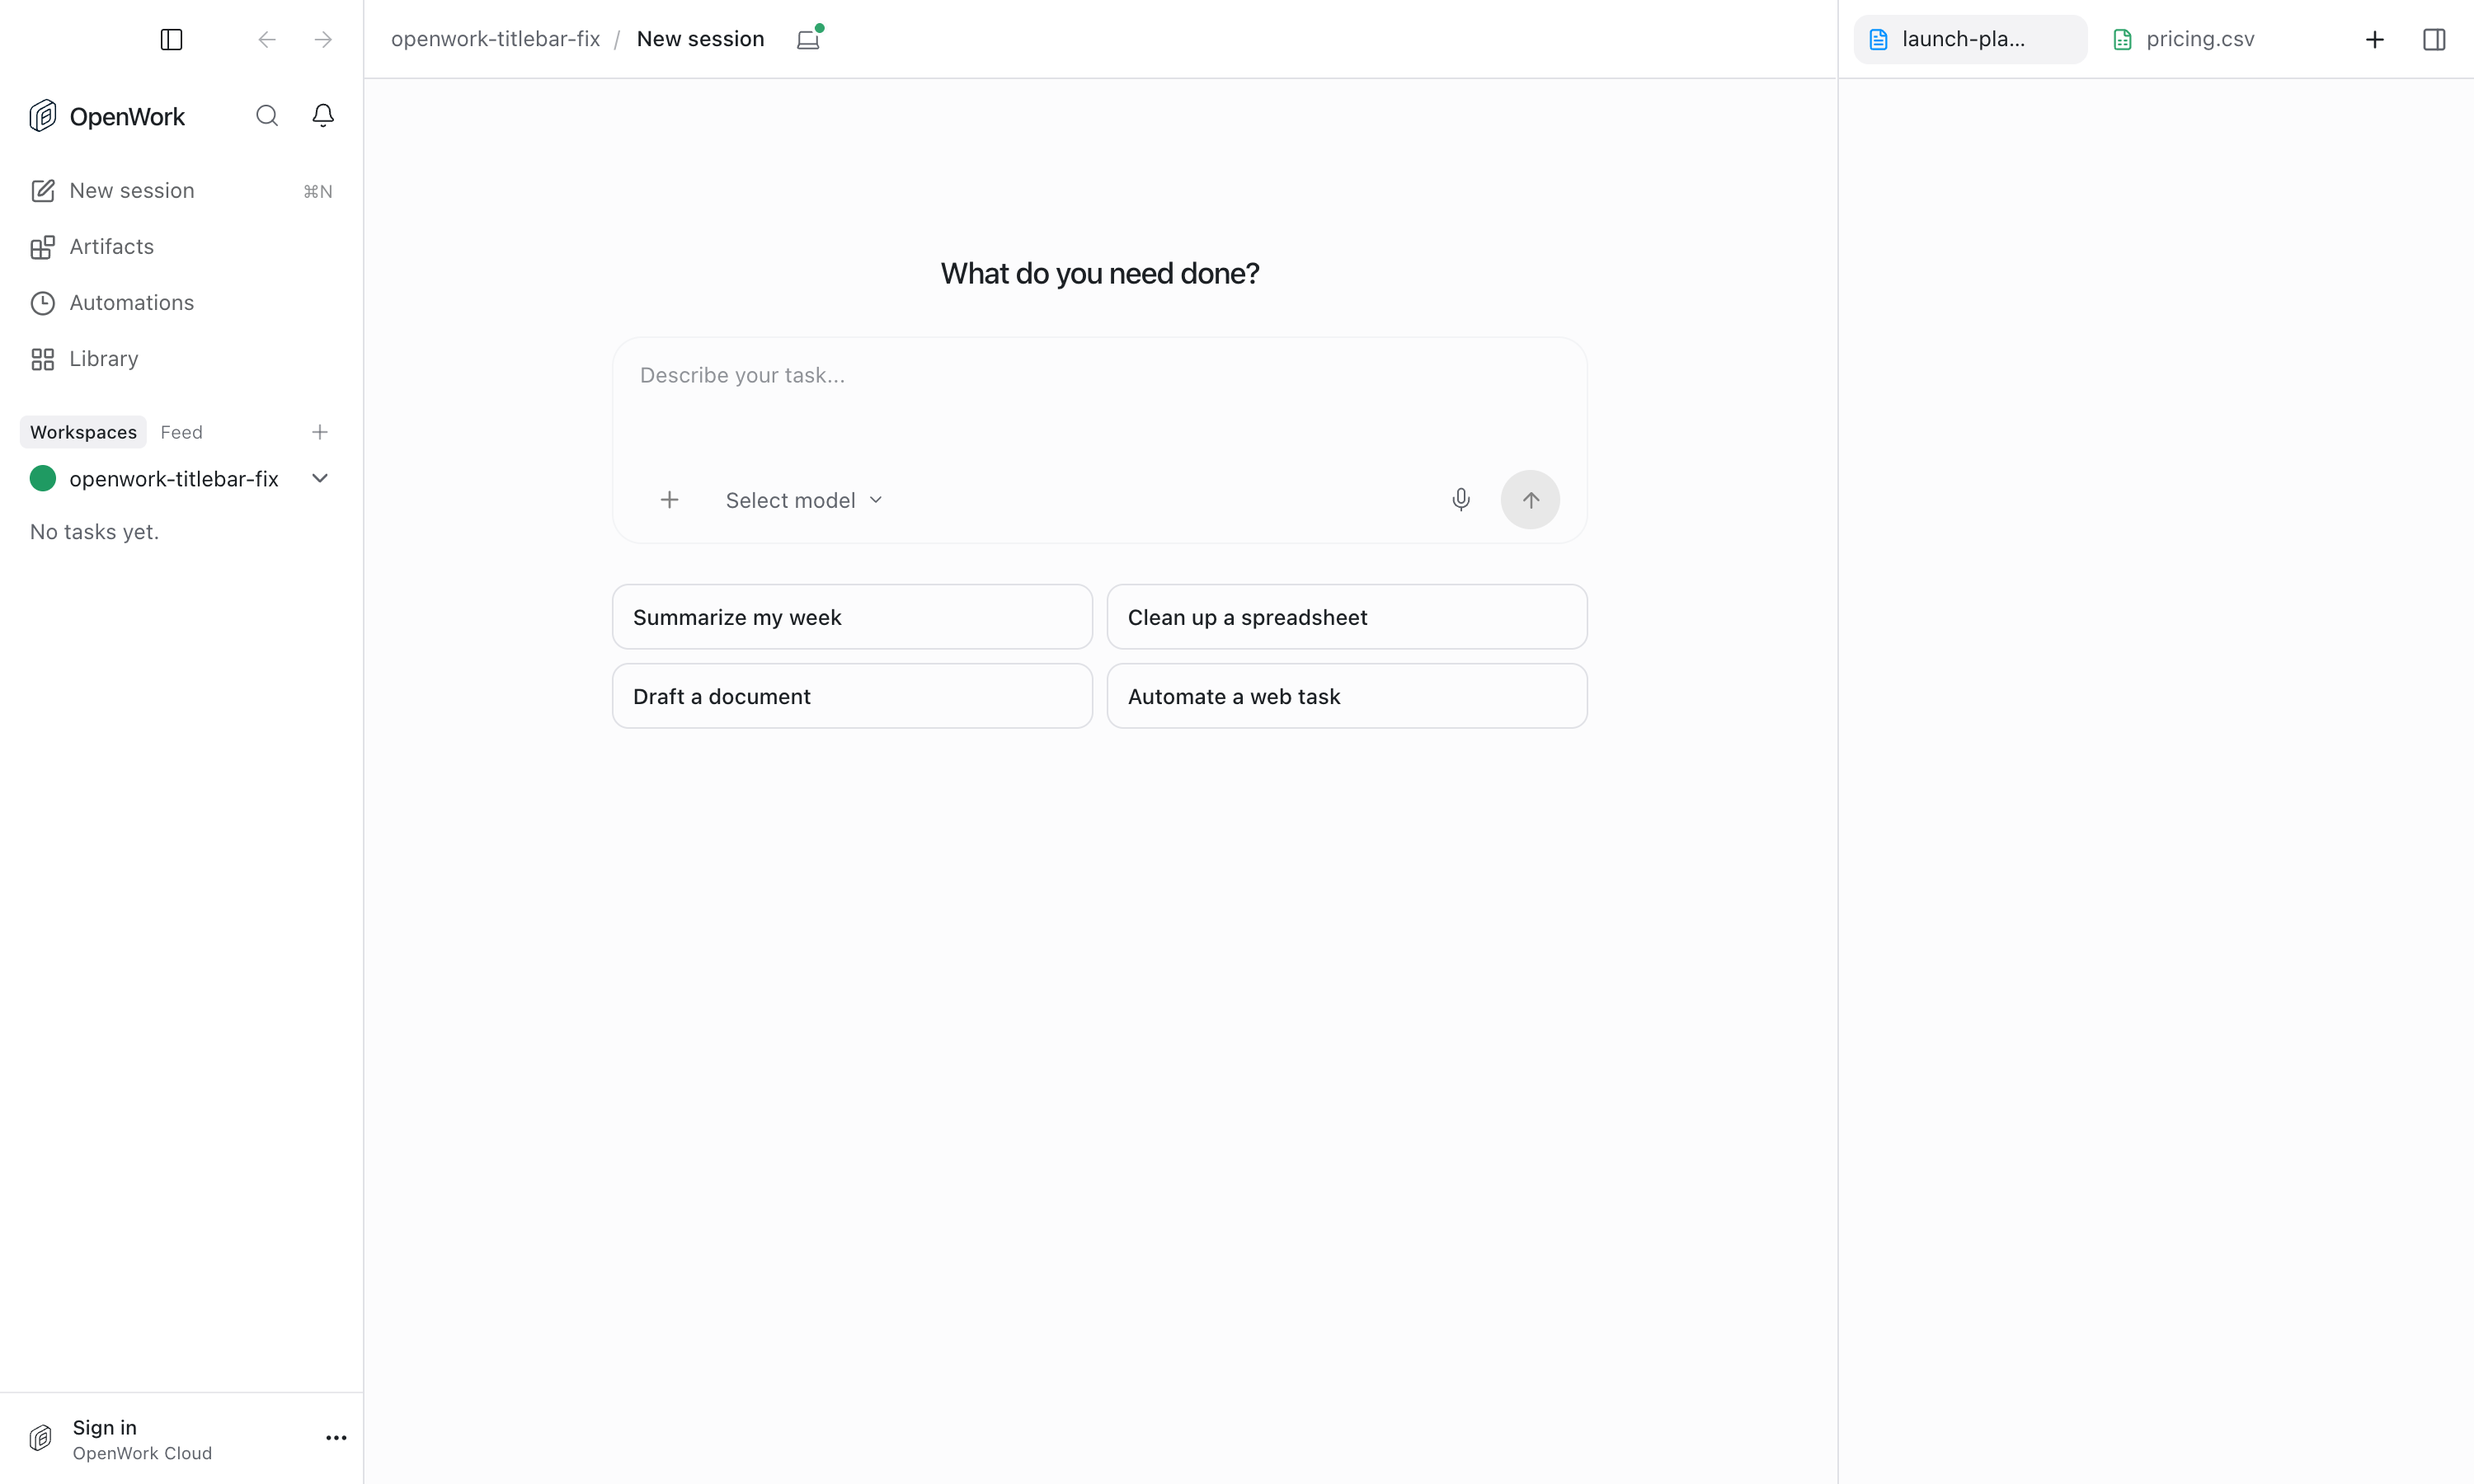
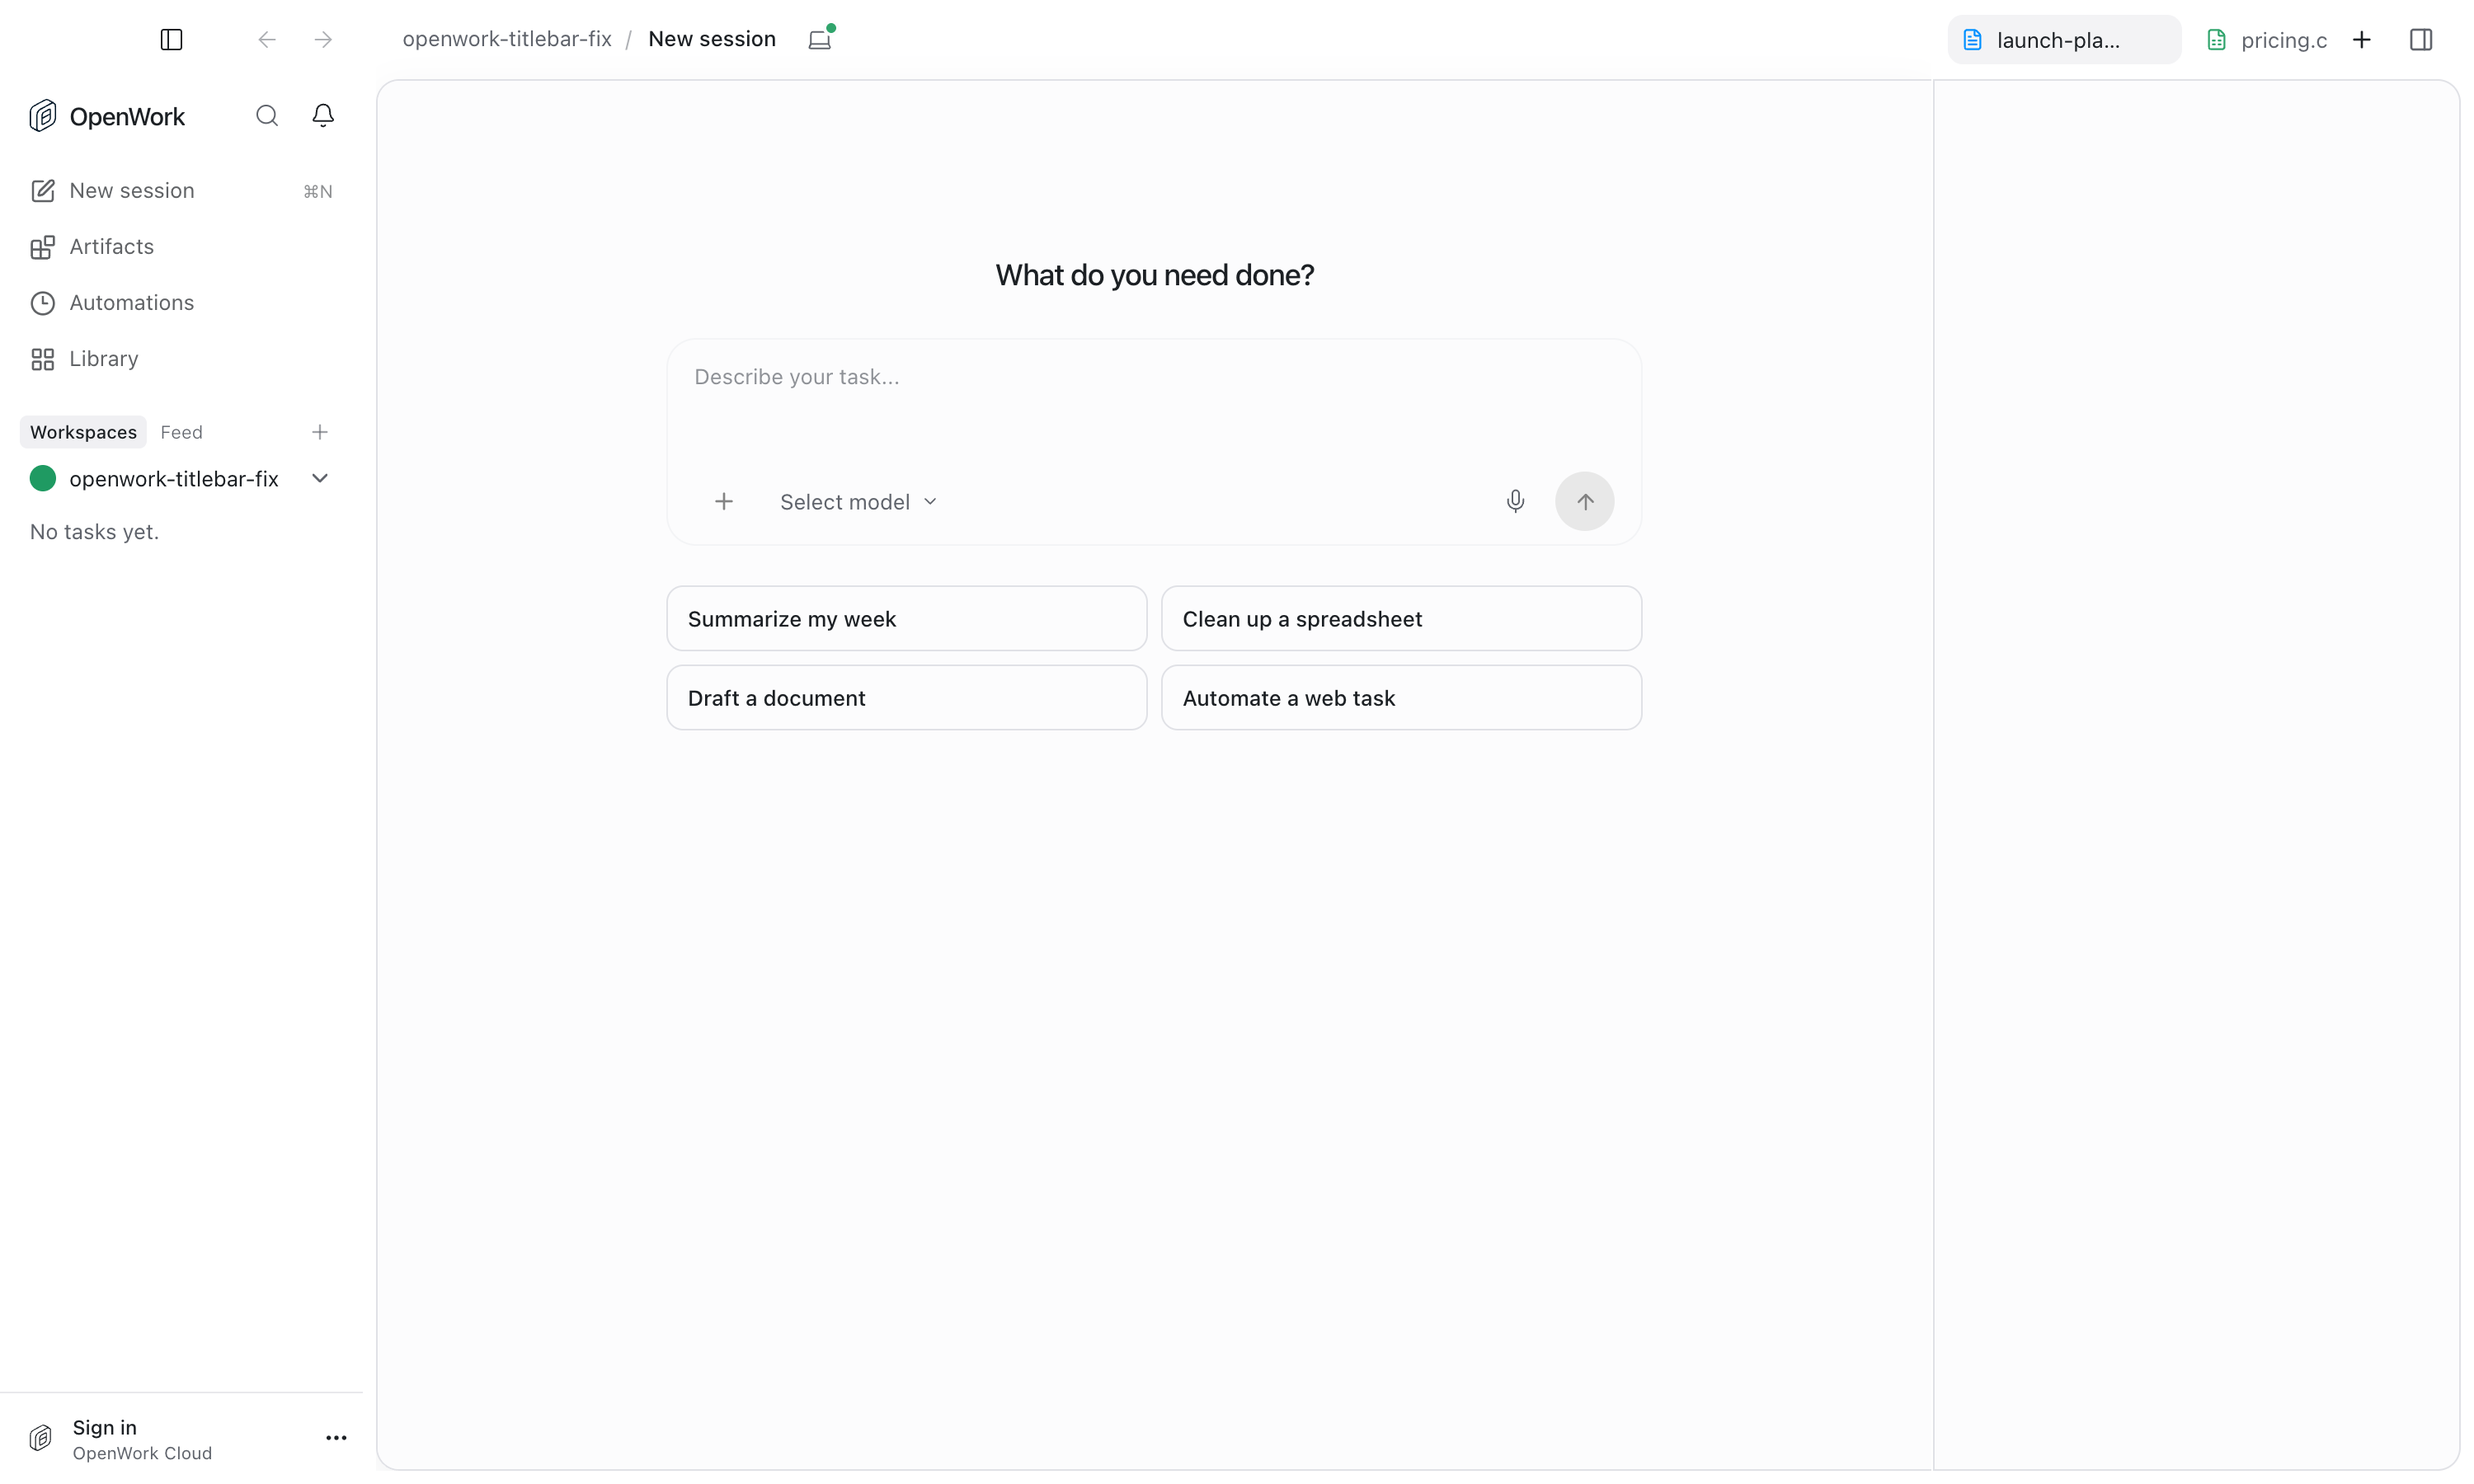
feat(desktop): keep the rounded card, split by a line, with panel tabs in the title bar

diff --git a/apps/app/src/react-app/domains/session/chat/session-page.tsx b/apps/app/src/react-app/domains/session/chat/session-page.tsx
@@ -1482,13 +1482,13 @@ export function SessionPage(props: SessionPageProps) {
   const sidePanelContent = activeSidePanel === "extensions" && props.settingsSlot ? (
     <div className={cn("flex h-full min-h-0 flex-col", !flatPanes && "bg-background")}>
       {flatPanes ? (
-        <div data-panel-titlebar className="window-titlebar flex shrink-0 items-center justify-end border-b border-border bg-dls-surface px-2 electron:titlebar-drag mac:bg-transparent">
+        <div data-panel-titlebar className="window-titlebar flex shrink-0 items-center justify-end px-2 electron:titlebar-drag">
           <Button variant="ghost" size="icon-sm" className="rounded-lg text-muted-foreground transition-colors hover:bg-muted hover:text-foreground titlebar-no-drag" aria-label="Close side panel" title="Close side panel" onClick={closeRightPane}>
             <PanelRight size={16} />
           </Button>
         </div>
       ) : null}
-      <div className={cn("flex min-h-0 flex-1 flex-col overflow-y-auto", flatPanes && "bg-background")}>{props.settingsSlot}</div>
+      <div className={cn("flex min-h-0 flex-1 flex-col overflow-y-auto", flatPanes && "rounded-r-[14px] border border-border bg-dls-surface border border-border shadow-[0_8px_24px_rgba(15,23,42,0.06)] dark:shadow-[0_10px_30px_rgba(0,0,0,0.45)]")}>{props.settingsSlot}</div>
     </div>
   ) : activeSidePanel === "panel" ? (
     <SidePanel
@@ -1526,7 +1526,7 @@ export function SessionPage(props: SessionPageProps) {
               "window-titlebar relative flex shrink-0 items-center justify-between gap-3 border-b border-border bg-dls-surface px-3 electron:titlebar-drag @container/titlebar lg:px-4 mac:bg-transparent",
               "[&_[data-session-centered-title]]:absolute [&_[data-session-centered-title]]:left-1/2 [&_[data-session-centered-title]]:max-w-[32%] [&_[data-session-centered-title]]:-translate-x-1/2 lg:[&_[data-session-title-panel-open=true]]:left-[calc(50%-9.375rem)]",
               props.mainContentHeaderActionsRef ? "min-h-13" : flatPanes ? "lg:px-3" : compactChrome && !props.developerMode ? "lg:pr-2" : "lg:pr-1",
-              props.primarySurface !== "flat" && !flatPanes && "lg:border-b-0",
+              props.primarySurface !== "flat" && "lg:border-b-0",
               (!shellConfig.sidebar || !sidebarOpen || isMobile) && "mac:mac-window-controls-inset",
             )}
           >
@@ -1862,7 +1862,7 @@ export function SessionPage(props: SessionPageProps) {
           <FloatingSlotProvider>
           {flatPanes ? null : sessionHeader}
 
-          <div className={cn("flex min-h-0 flex-1 max-lg:p-0", props.primarySurface !== "flat" && !flatPanes && "lg:pb-2 lg:pl-2", props.primarySurface !== "flat" && !flatPanes && compactChrome && !props.developerMode && "lg:pr-2")}>
+          <div className={cn("flex min-h-0 flex-1 max-lg:p-0", props.primarySurface !== "flat" && "lg:pb-2 lg:pl-2", props.primarySurface !== "flat" && compactChrome && !props.developerMode && "lg:pr-2")}>
           <ResizablePanelGroup
             orientation="horizontal"
             elementRef={panelGroupRef}
@@ -1870,9 +1870,9 @@ export function SessionPage(props: SessionPageProps) {
             className={cn("min-h-0 flex-1 max-lg:rounded-none", props.primarySurface !== "flat" && !flatPanes && "lg:rounded-[14px]")}
           >
             <ResizablePanel minSize={isMobile ? "0px" : "360px"} className="min-w-0">
-              <div data-session-column className={cn("flex h-full min-w-0 flex-col", flatPanes && shellConfig.sidebar && sidebarOpen && "border-l border-border")}>
+              <div data-session-column className="flex h-full min-w-0 flex-col">
               {flatPanes ? sessionHeader : null}
-              <main data-session-pane className={cn("flex min-h-0 min-w-0 flex-1 flex-col overflow-hidden bg-dls-surface", props.primarySurface !== "flat" && !flatPanes && "max-lg:rounded-none max-lg:border-0 max-lg:shadow-none lg:rounded-[14px] lg:border lg:border-border lg:shadow-[0_8px_24px_rgba(15,23,42,0.06)] dark:lg:shadow-[0_10px_30px_rgba(0,0,0,0.45)] mac:bg-dls-surface/85 mac:backdrop-blur-2xl mac:backdrop-saturate-150")}>
+              <main data-session-pane className={cn("flex min-h-0 min-w-0 flex-1 flex-col overflow-hidden bg-dls-surface", flatPanes && "lg:border lg:border-border lg:shadow-[0_8px_24px_rgba(15,23,42,0.06)] dark:lg:shadow-[0_10px_30px_rgba(0,0,0,0.45)]", flatPanes && (sidePanelOpen ? "lg:rounded-l-[14px] lg:border-r-0" : "lg:rounded-[14px]"), props.primarySurface !== "flat" && !flatPanes && "max-lg:rounded-none max-lg:border-0 max-lg:shadow-none lg:rounded-[14px] lg:border lg:border-border lg:shadow-[0_8px_24px_rgba(15,23,42,0.06)] dark:lg:shadow-[0_10px_30px_rgba(0,0,0,0.45)] mac:bg-dls-surface/85 mac:backdrop-blur-2xl mac:backdrop-saturate-150")}>
           {props.sandboxTrialNotice}
           {showNarrowPaneSwitcher ? (
             <NarrowPaneSwitcher
@@ -2222,7 +2222,7 @@ export function SessionPage(props: SessionPageProps) {
                   maxSize="70%"
                   className={cn("min-h-0 overflow-hidden lg:flex lg:flex-col", !flatPanes && "pl-2")}
                 >
-                  <div className={cn("flex h-full min-h-0 min-w-0 flex-1 flex-col overflow-hidden", flatPanes ? "border-l border-border" : "rounded-[14px] border border-border bg-dls-surface shadow-[0_8px_24px_rgba(15,23,42,0.06)] dark:shadow-[0_10px_30px_rgba(0,0,0,0.45)] mac:bg-dls-surface/85 mac:backdrop-blur-2xl mac:backdrop-saturate-150")}>
+                  <div className={cn("flex h-full min-h-0 min-w-0 flex-1 flex-col overflow-hidden", flatPanes ? null : "rounded-[14px] border border-border bg-dls-surface shadow-[0_8px_24px_rgba(15,23,42,0.06)] dark:shadow-[0_10px_30px_rgba(0,0,0,0.45)] mac:bg-dls-surface/85 mac:backdrop-blur-2xl mac:backdrop-saturate-150")}>
                     {sidePanelContent}
                   </div>
                 </ResizablePanel>

diff --git a/apps/app/src/react-app/domains/session/panel/side-panel.tsx b/apps/app/src/react-app/domains/session/panel/side-panel.tsx
@@ -824,7 +824,7 @@ export function SidePanel({
   return (
     <TooltipProvider delay={1000}>
       <div
-        className={cn("flex h-full flex-col", titlebar ? "[&>*:not([data-panel-titlebar-row])]:bg-background" : null)}
+        className={cn("flex h-full flex-col", titlebar ? "[&>*:not([data-panel-titlebar-row])]:rounded-r-[14px] [&>*:not([data-panel-titlebar-row])]:border [&>*:not([data-panel-titlebar-row])]:border-border [&>*:not([data-panel-titlebar-row])]:bg-dls-surface" : null)}
         onKeyDownCapture={(event) => {
           if (isBrowserSecretsDialogTarget(event.target)) return;
           if (!handlePanelEscape(event.key, onClose)) return;
@@ -832,8 +832,8 @@ export function SidePanel({
           event.stopPropagation();
         }}
       >
-        {titlebar || !(tabs.length === 1 && (activeTab?.type === "mcp-app" || activeTab?.type === "remote-thread")) ? <div data-panel-titlebar-row={titlebar ? "" : undefined} className={cn("shrink-0", titlebar ? "bg-dls-surface mac:bg-transparent" : "border-b border-border bg-background mac:bg-background/80 mac:backdrop-blur-2xl mac:backdrop-saturate-150")}>
-          <div data-panel-titlebar={titlebar ? "" : undefined} className={cn("flex items-center gap-1 px-2", titlebar ? "window-titlebar border-b border-border electron:titlebar-drag" : "h-10 border-b border-border/60")}>
+        {titlebar || !(tabs.length === 1 && (activeTab?.type === "mcp-app" || activeTab?.type === "remote-thread")) ? <div data-panel-titlebar-row={titlebar ? "" : undefined} className={cn("shrink-0", titlebar ? null : "border-b border-border bg-background mac:bg-background/80 mac:backdrop-blur-2xl mac:backdrop-saturate-150")}>
+          <div data-panel-titlebar={titlebar ? "" : undefined} className={cn("flex items-center gap-1 px-2", titlebar ? "window-titlebar electron:titlebar-drag" : "h-10 border-b border-border/60")}>
             <div className={cn("no-scrollbar min-w-0 overflow-x-auto", titlebar ? "titlebar-no-drag" : "flex-1")}>
               <PanelTabList
                 values={tabs.map((tab) => tab.id)}

diff --git a/packages/features/src/flags/flat-session-panes.ts b/packages/features/src/flags/flat-session-panes.ts
@@ -1,8 +1,8 @@
 import { defineFeature, everywhere } from "@openwork/features/define"
 
 export default defineFeature({
-  label: "Desktop: chat and side panel as flat columns",
-  description: "In the desktop app the chat and the side panel fill the window as two flat columns split by a thin line, and the side panel's tabs sit in the title bar.",
+  label: "Desktop: chat and side panel in one card",
+  description: "In the desktop app the chat and the side panel share one rounded card split by a thin line, and the side panel's tabs sit in the title bar.",
   category: "experience",
   added: "2026-11-27",
   since: "2026-11",

diff --git a/docs/features/flat-session-panes/README.md b/docs/features/flat-session-panes/README.md
@@ -13,16 +13,16 @@ title bar.
 
 With the feature on:
 
-- The chat and the side panel fill the window as two flat columns split by a
-  thin line. The side panel reaches the window's right and bottom edges.
-- The title bar runs across both columns. The side panel's tabs sit in it, and
-  the button that closes the panel is at its far right.
-- With the side panel closed, the chat takes the full width and the button
-  that opens the panel stays in the chat's title bar.
+- The chat and the side panel share one rounded card, split by a thin line,
+  with no gap between them.
+- The side panel's tabs sit in the title bar above the panel, and the button
+  that closes the panel is at the title bar's far right.
+- With the side panel closed, the chat card takes the full width and the
+  button that opens the panel stays in the title bar.
 
 | Off | On |
 | --- | --- |
-| ![Off: chat and side panel as two floating cards](./off.png) | ![On: flat columns with the panel tabs in the title bar](./on.png) |
+| ![Off: chat and side panel as two floating cards](./off.png) | ![On: one rounded card with the panel tabs in the title bar](./on.png) |
 
 ## How it works
 
